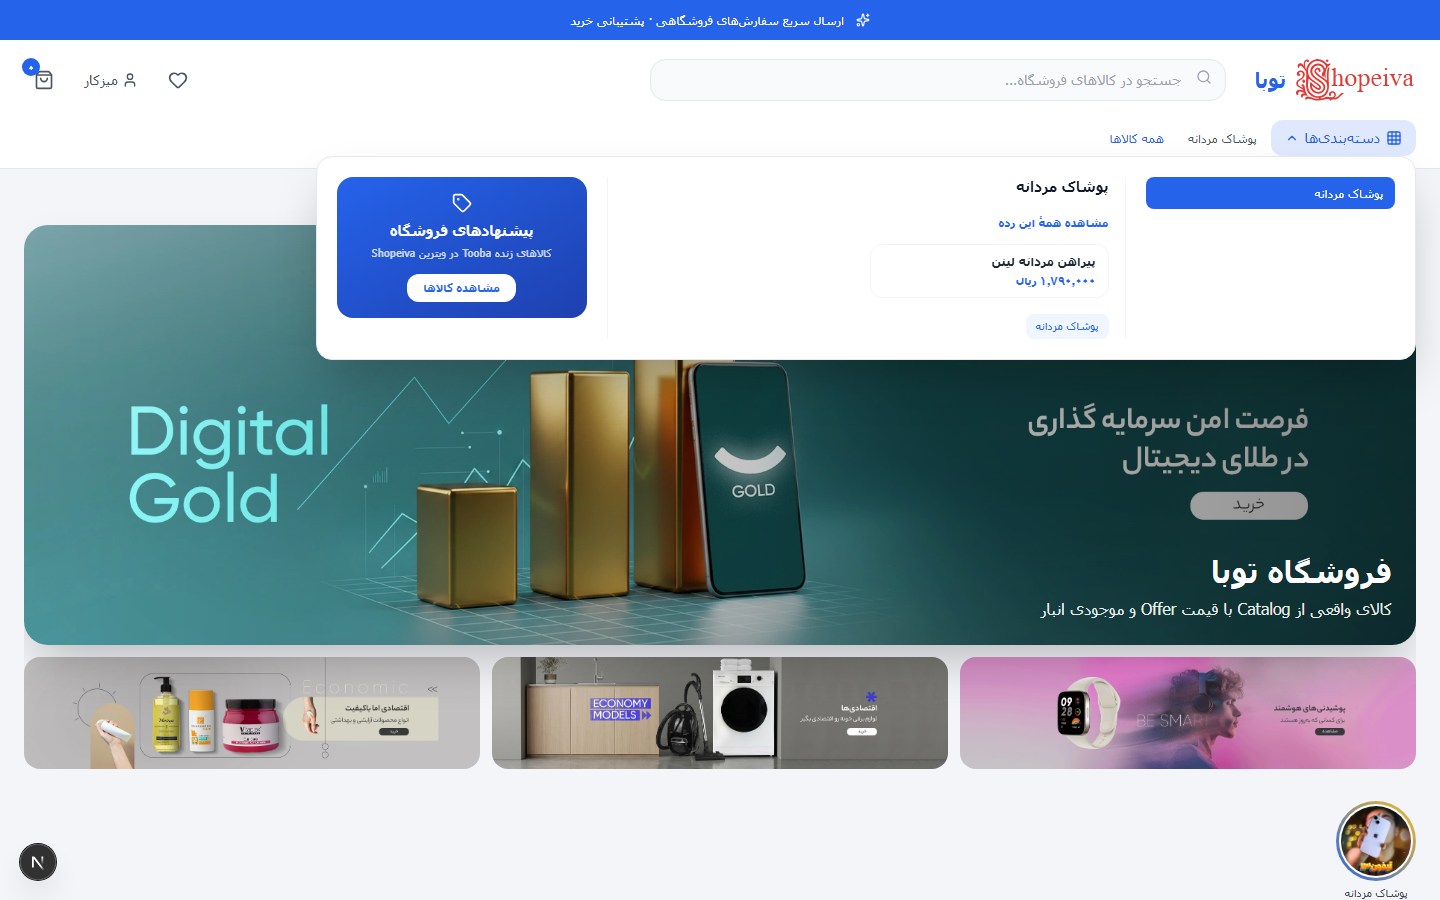
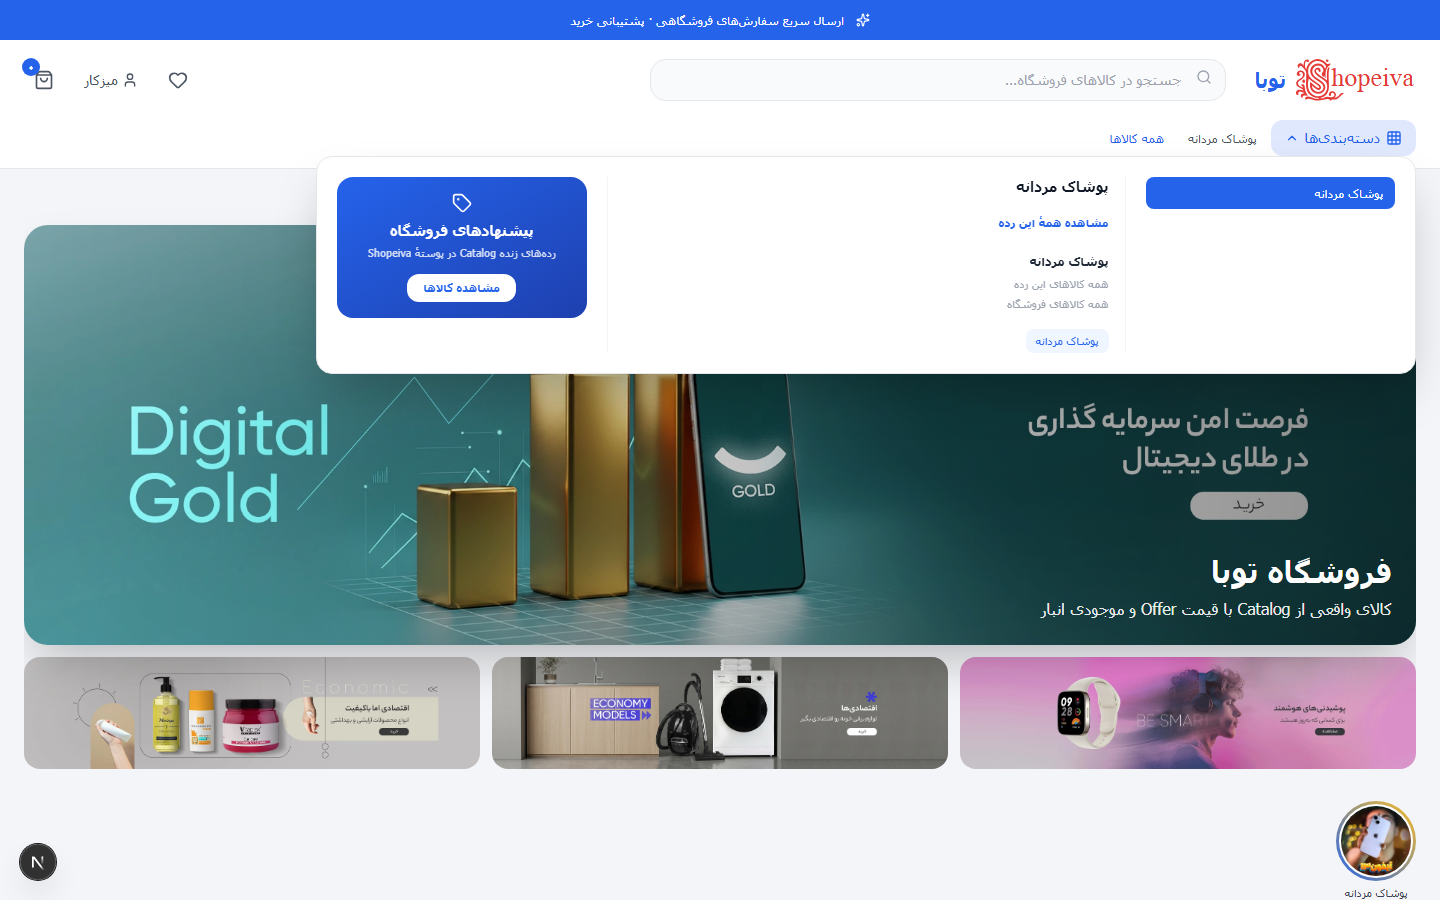
fix mega menu to category hierarchy without product cards [TB-P05-T002]

Changed region(s): [[0.2188, 0.28, 1.0, 0.4356], [0.25, 0.28, 0.375, 0.3111]]

diff --git a/src/frontend/app/storefront/storefront-header.tsx b/src/frontend/app/storefront/storefront-header.tsx
@@ -1,7 +1,7 @@
 "use client";
 
 import Link from "next/link";
-import { useEffect, useMemo, useState } from "react";
+import { useEffect, useState } from "react";
 import {
   ChevronDown,
   Grid3X3,
@@ -19,7 +19,8 @@ import { formatOfferAmount } from "./storefront-api.ts";
 import { CART_CHANGED_EVENT, loadStorefrontCart } from "./storefront-cart-api.ts";
 
 /**
- * هدر Shopeiva با نوار پرومو، جستجو، مگامنوی زنده Catalog و سبد.
+ * هدر Shopeiva با نوار پرومو، جستجو، مگامنوی ردهای زنده Catalog و سبد.
+ * مگامنو hierarchy رده است؛ کارت محصول و قیمت داخل مگامنو نمیآید.
  */
 export function StorefrontShopeivaHeader({
   categories,
@@ -56,13 +57,7 @@ export function StorefrontShopeivaHeader({
   }, [categories, selectedCategoryId]);
 
   const selectedCategory = categories.find((item) => item.categoryId === selectedCategoryId) ?? categories[0] ?? null;
-  const megaProducts = useMemo(() => {
-    if (!selectedCategory) {
-      return searchCatalog.slice(0, 8);
-    }
-    const filtered = searchCatalog.filter((item) => item.categoryId === selectedCategory.categoryId);
-    return (filtered.length > 0 ? filtered : searchCatalog).slice(0, 8);
-  }, [searchCatalog, selectedCategory]);
+  const siblingCategories = categories.filter((item) => item.categoryId !== selectedCategory?.categoryId);
 
   const matches = query.trim()
     ? searchCatalog.filter((item) => item.title.includes(query.trim())).slice(0, 6)
@@ -199,23 +194,32 @@ export function StorefrontShopeivaHeader({
                     {selectedCategory ? (
                       <Link
                         href={`/products?categoryId=${selectedCategory.categoryId}`}
-                        className="inline-flex mb-3 text-[11px] font-bold text-[#2563EB]"
+                        className="inline-flex mb-4 text-[11px] font-bold text-[#2563EB]"
                       >
                         مشاهده همهٔ این رده
                       </Link>
                     ) : null}
-                    <div className="grid grid-cols-2 gap-2">
-                      {megaProducts.map((item) => (
-                        <Link
-                          key={item.productId}
-                          href={`/products/${item.slug}`}
-                          className="rounded-xl border border-gray-100 px-3 py-2 hover:border-[#2563EB]/40"
-                        >
-                          <p className="text-xs font-bold text-gray-800 line-clamp-2">{item.title}</p>
-                          <p className="text-[11px] text-[#2563EB] font-bold mt-1">
-                            {formatOfferAmount(item.offerAmountExclusiveOfTax, item.currency)}
-                          </p>
-                        </Link>
+                    <div className="grid grid-cols-2 gap-x-6 gap-y-4">
+                      {(siblingCategories.length > 0 ? siblingCategories : categories).slice(0, 8).map((sub) => (
+                        <div key={sub.categoryId}>
+                          <Link
+                            href={`/products?categoryId=${sub.categoryId}`}
+                            className="text-xs font-bold text-gray-800 hover:text-[#2563EB]"
+                          >
+                            {sub.name}
+                          </Link>
+                          <div className="mt-1 space-y-1">
+                            <Link
+                              href={`/products?categoryId=${sub.categoryId}`}
+                              className="block text-[11px] text-gray-400 hover:text-[#2563EB]"
+                            >
+                              همه کالاهای این رده
+                            </Link>
+                            <Link href="/products" className="block text-[11px] text-gray-400 hover:text-[#2563EB]">
+                              همه کالاهای فروشگاه
+                            </Link>
+                          </div>
+                        </div>
                       ))}
                     </div>
                     <div className="mt-4 flex flex-wrap gap-2">
@@ -234,7 +238,7 @@ export function StorefrontShopeivaHeader({
                     <div className="rounded-2xl overflow-hidden bg-gradient-to-br from-[#2563EB] to-[#1e40af] text-white p-4 text-center">
                       <Tag className="w-5 h-5 mx-auto mb-2" />
                       <p className="font-bold text-sm">پیشنهادهای فروشگاه</p>
-                      <p className="text-[11px] opacity-80 mt-1">کالاهای زنده Tooba در ویترین Shopeiva</p>
+                      <p className="text-[11px] opacity-80 mt-1">ردههای زنده Catalog در پوستهٔ Shopeiva</p>
                       <Link href="/products" className="mt-3 inline-block px-4 py-1.5 bg-white text-[#2563EB] rounded-xl text-[11px] font-bold">
                         مشاهده کالاها
                       </Link>

diff --git a/docs/evidence/TB-P05-T002/shopeiva-home-fidelity.md b/docs/evidence/TB-P05-T002/shopeiva-home-fidelity.md
@@ -11,7 +11,7 @@ Fast-connect of purchased Shopeiva Home chrome to live Tooba storefront data. No
 | Promo bar | Static Shopeiva chrome | Accent blue `#2563EB`; copy kept as storefront support strip |
 | Header / logo / actions | Live cart badge via `loadStorefrontCart`; search suggestions from `/v1/storefront/home` featured products | Logo asset remains Shopeiva; brand text is Tooba |
 | Search | `GET /products?q=` + live Offer amounts in suggest | No Product.Price |
-| Mega Menu | Live Catalog categories + live product cards filtered by category | Fake `/jsons/menuCategories.json` tree removed as authority; click/hover open |
+| Mega Menu | Live Catalog categories (flat) | Fake `/jsons/menuCategories.json` removed; **no product cards/prices inside mega**; middle columns are category hierarchy chrome filled with live category links; nested Catalog tree still missing |
 | Hero / Slider | Static Shopeiva slider assets + live `heroTitle` / `heroSubtitle` overlay | CMS/slider content not owned by Catalog |
 | Stories | Live category names + Shopeiva story images | Images are chrome, labels are Catalog |
 | Category tiles | `StorefrontHomePage.Categories` | Tile images rotate Shopeiva category assets |
